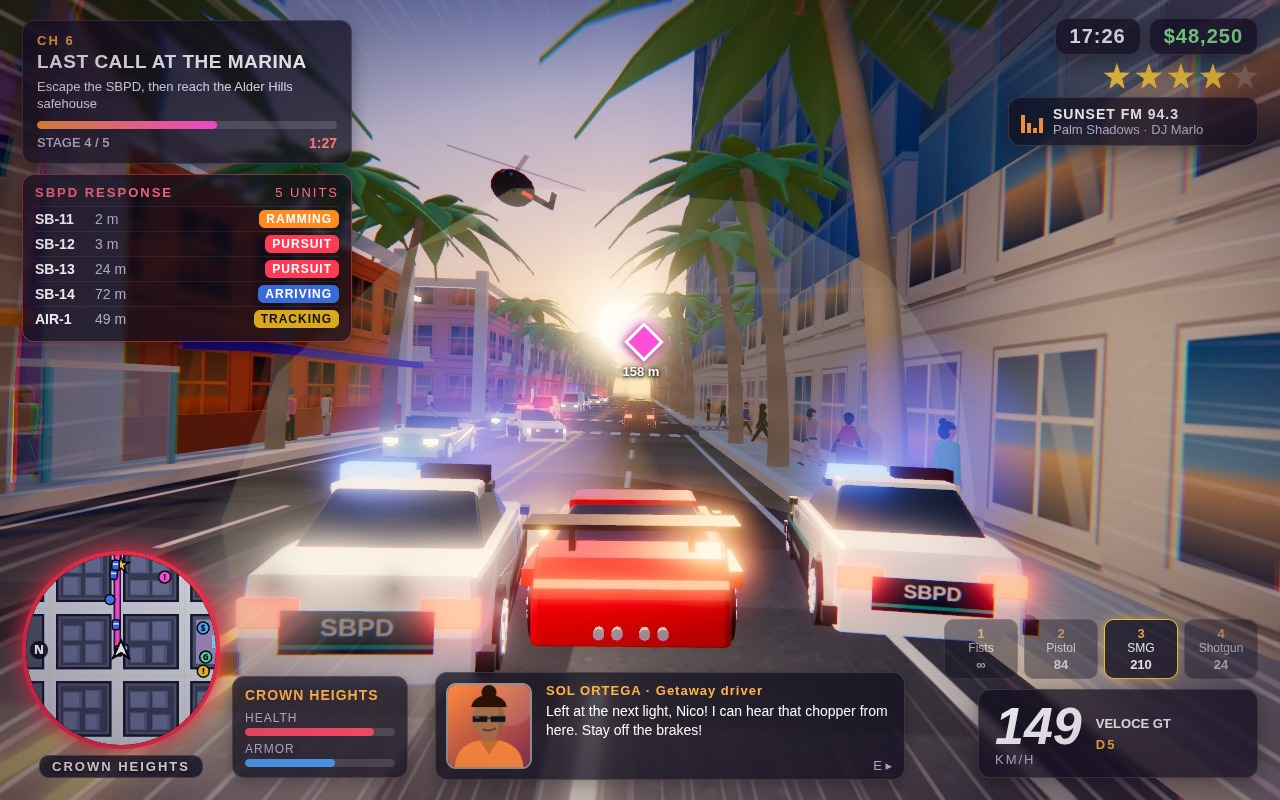
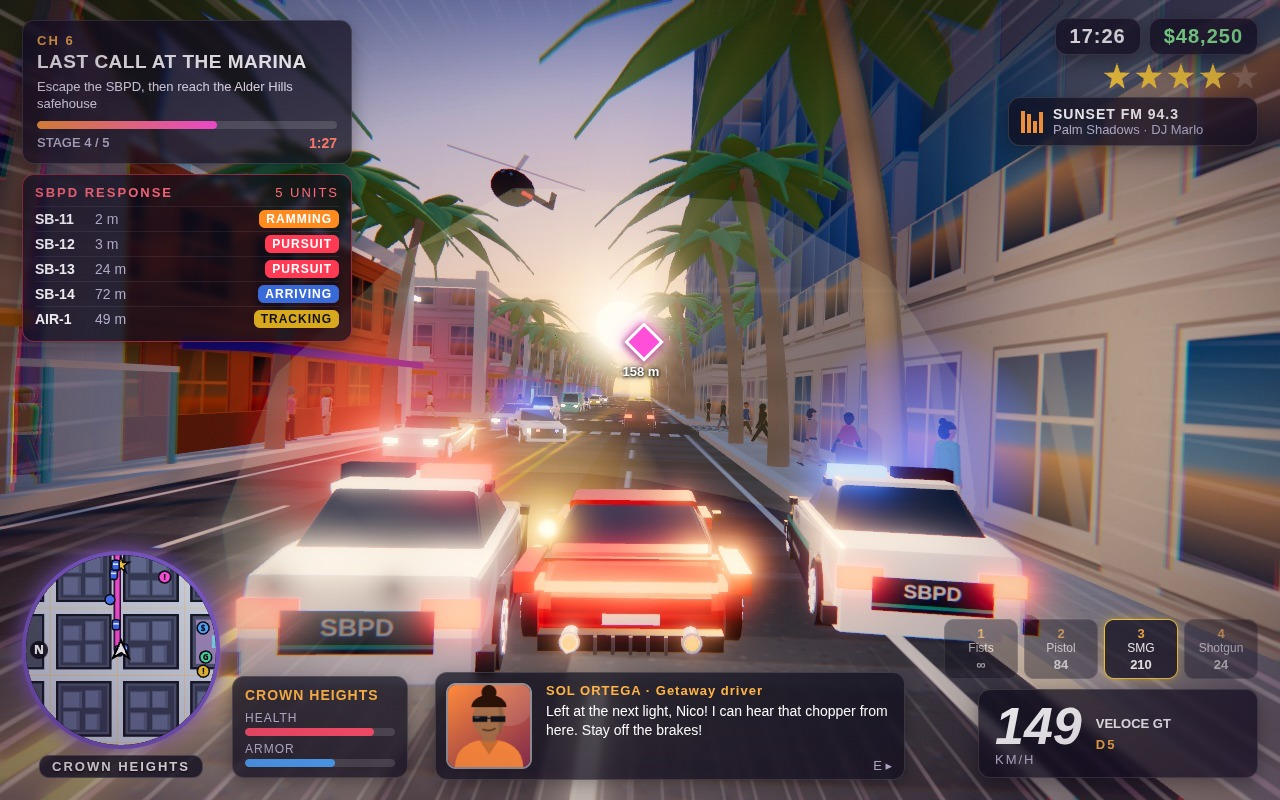
VELOCE GT rear: tapered rounded tail, ducktail, LED tail bar with bloom card, finned diffuser, twin exhausts with throttle flame flicker, wider rear wheels and haunches

Changed region(s): [[0.1875, 0.375, 0.625, 0.8438], [0.0, 0.6562, 0.1875, 0.9688], [0.7812, 0.125, 0.8125, 0.1562]]

diff --git a/game/src/vehicles/vehicleModels.js b/game/src/vehicles/vehicleModels.js
@@ -18,7 +18,7 @@ export const CAR_TYPES = {
 // Side profiles (z: rear -> front is -L/2 -> +L/2, y: height). top = front-to-rear outline of the painted body;
 // cab = greenhouse outline (front base, roof front, roof rear, rear base); light heights; wheel radius.
 const PROFILES = {
-  veloce: { top: [[2.25, 0.4], [2.18, 0.6], [1.1, 0.78], [0.55, 0.84], [-1.65, 0.95], [-2.2, 0.93], [-2.25, 0.62]], cab: [[0.6, 0.83], [-0.2, 1.2], [-0.85, 1.19], [-1.8, 0.93]], hy: 0.55, ty: 0.8, r: 0.35, sport: true },
+  veloce: { top: [[2.25, 0.4], [2.18, 0.6], [1.1, 0.78], [0.55, 0.84], [-1.6, 0.94], [-1.98, 0.92], [-2.18, 0.86], [-2.29, 0.74], [-2.32, 0.56], [-2.28, 0.42]], cab: [[0.6, 0.83], [-0.2, 1.2], [-0.8, 1.18], [-1.95, 0.9]], hy: 0.55, ty: 0.8, r: 0.35, sport: true },
   sedan: { top: [[2.35, 0.48], [2.3, 0.8], [1.05, 0.92], [0.85, 0.95], [-1.55, 0.99], [-2.3, 0.96], [-2.35, 0.55]], cab: [[0.85, 0.94], [0.05, 1.42], [-1.0, 1.42], [-1.6, 0.98]], hy: 0.66, ty: 0.82, r: 0.36 },
   hawke: { top: [[2.45, 0.58], [2.4, 1.0], [1.3, 1.1], [1.1, 1.12], [-2.4, 1.16], [-2.45, 0.66]], cab: [[1.1, 1.1], [0.4, 1.78], [-2.2, 1.78], [-2.4, 1.16]], hy: 0.85, ty: 1.0, r: 0.4 },
   cadia: { top: [[2.55, 0.55], [2.5, 0.92], [1.95, 1.05], [1.8, 1.08], [0.55, 2.02], [-2.5, 2.04], [-2.55, 0.62]], cab: [[1.85, 1.05], [1.2, 1.9], [0.62, 1.92], [0.62, 1.05]], hy: 0.8, ty: 1.2, r: 0.38 },
@@ -69,8 +69,10 @@ const polyShape = (pts) => { const s = new THREE.Shape(); s.moveTo(pts[0][0], pt
 const geoCache = {};
 function build(key) {
   const t = CAR_TYPES[key], pr = PROFILES[key], W = t.wid, L = t.len, wz = L * 0.32, hl = L / 2;
-  const plan = (z) => 1 - 0.1 * Math.pow(Math.min(1, Math.abs(z) / hl), 3);
-  const paint = [extrudeProfile(bodyShape(pr, L), W, (y, z) => plan(z) * (1 - 0.05 * Math.max(0, Math.min(1, (y - 0.6) / 0.4))))];
+  // plan-view taper; the sports car gets a pinched tail and rounded rear shoulders over wide haunches
+  const plan = (z) => 1 - (pr.sport && z < 0 ? 0.17 : 0.1) * Math.pow(Math.min(1, Math.abs(z) / hl), pr.sport && z < 0 ? 2.4 : 3);
+  const shoulder = pr.sport ? 0.14 : 0.05, sy = pr.sport ? 0.55 : 0.6;
+  const paint = [extrudeProfile(bodyShape(pr, L), W, (y, z) => plan(z) * (1 - shoulder * Math.pow(Math.max(0, Math.min(1, (y - sy) / 0.4)), 1.4)))];
   const glass = [], trim = [], lights = [];
   const DK = 0x141418, CH = [1.2, 1.2, 1.25], PLATE = 0xf4f4ee;
   if (pr.cab) {
@@ -85,10 +87,10 @@ function build(key) {
     trim.push([B(W * 0.86, 0.06, 1.3, 0, 0.9, -0.2), 0x2a1a14]);
   }
   for (const sx of [-1, 1]) for (const sz of [-1, 1]) { // wheels: tyre, sidewall, spoked rim, hub
-    const x = sx * (W / 2 - 0.15), z = sz * wz, ox = x + sx * 0.14;
-    trim.push([cyl(pr.r, 0.3, x, pr.r, z, 16), 0x111113], [cyl(pr.r * 0.72, 0.02, ox, pr.r, z, 16), 0x2a2a2e], [cyl(pr.r * 0.66, 0.03, ox + sx * 0.005, pr.r, z, 16), [0.55, 0.57, 0.6]], [cyl(0.07, 0.05, ox + sx * 0.02, pr.r, z, 8), CH]);
+    const wide = pr.sport && sz < 0, x = sx * (W / 2 - (wide ? 0.13 : 0.15)), z = sz * wz, ox = x + sx * (wide ? 0.18 : 0.14);
+    trim.push([cyl(pr.r, wide ? 0.38 : 0.3, x, pr.r, z, 16), 0x111113], [cyl(pr.r * 0.72, 0.02, ox, pr.r, z, 16), 0x2a2a2e], [cyl(pr.r * 0.66, 0.03, ox + sx * 0.005, pr.r, z, 16), [0.55, 0.57, 0.6]], [cyl(0.07, 0.05, ox + sx * 0.02, pr.r, z, 8), CH]);
     for (let k = 0; k < 5; k++) { const sp = new THREE.BoxGeometry(0.03, pr.r * 1.25, 0.07); sp.rotateX(k / 5 * Math.PI); sp.translate(ox + sx * 0.02, pr.r, z); trim.push([sp, CH]); }
-    if (pr.sport) paint.push(B(0.12, 0.16, 0.95, sx * (W / 2 - 0.02), pr.r + 0.36, z)); // fender flare lip
+    if (pr.sport) paint.push(B(wide ? 0.2 : 0.12, wide ? 0.2 : 0.16, wide ? 1.05 : 0.95, sx * (W / 2 + (wide ? 0.02 : -0.02)), pr.r + (wide ? 0.33 : 0.36), z)); // fender flare lip, wider haunches at the rear
   }
   const fz = pr.top[0][0], rz = pr.top[pr.top.length - 1][0], hy = pr.hy, ty = pr.ty;
   for (const sx of [-1, 1]) {
@@ -97,16 +99,21 @@ function build(key) {
     trim.push([B(0.1, 0.09, 0.2, sx * (W / 2 + 0.04), pr.cab ? pr.cab[0][1] + 0.08 : 1.0, pr.cab ? pr.cab[0][0] - 0.2 : 0.5), DK]); // mirrors
   }
   if (pr.sport) {
-    lights.push([B(W * 0.86, 0.06, 0.08, 0, ty - 0.04, rz - 0.05), [4.5, 0.25, 0.2]]); // full-width tail bar
-    trim.push([B(W * 0.98, 0.05, 0.55, 0, 1.24, -1.95), DK]); for (const sx of [-0.55, 0.55]) trim.push([B(0.06, 0.3, 0.14, sx, 1.07, -1.95), DK]); // spoiler
-    trim.push([B(W * 0.9, 0.06, 0.4, 0, 0.3, fz - 0.1), DK], [B(W * 0.86, 0.16, 0.1, 0, 0.36, rz + 0.03), DK]); // splitter, diffuser
-    for (const sx of [-1, 1]) { trim.push([B(0.05, 0.16, 0.7, sx * (W / 2 - 0.0), 0.62, -0.75), DK]); for (const o of [0.12, 0.28]) trim.push([new THREE.CylinderGeometry(0.045, 0.05, 0.14, 10).rotateX(Math.PI / 2).translate(sx * o, 0.34, rz - 0.05), [0.35, 0.35, 0.38]]); }
+    // full-width LED tail bar wrapping the tail, dark rear panel band, ducktail lip
+    const rb = rz - 0.07; // rear skin, past the extrusion bevel
+    lights.push([B(W * 0.76, 0.08, 0.05, 0, 0.75, rb - 0.01), [7, 0.35, 0.25]], [B(W * 0.7, 0.025, 0.04, 0, 0.69, rb - 0.03), [2.4, 0.12, 0.1]]);
+    for (const sx of [-1, 1]) lights.push([B(0.08, 0.07, 0.34, sx * 0.8, 0.75, -2.18), [6, 0.3, 0.22]]);
+    trim.push([B(W * 0.7, 0.14, 0.04, 0, 0.6, rb - 0.03), DK], [B(W * 0.8, 0.035, 0.22, 0, 0.93, -2.03), DK]);
+    trim.push([B(W * 0.9, 0.06, 0.4, 0, 0.3, fz - 0.1), DK], [B(W * 0.8, 0.14, 0.2, 0, 0.31, rb - 0.05), DK]); // splitter, diffuser
+    for (let f = -2; f <= 2; f++) trim.push([B(0.03, 0.15, 0.22, f * 0.15, 0.3, rb - 0.08), [0.08, 0.08, 0.09]]); // diffuser fins
+    for (const sx of [-1, 1]) { trim.push([B(0.05, 0.16, 0.7, sx * (W / 2 - 0.0), 0.62, -0.75), DK]);
+      trim.push([new THREE.CylinderGeometry(0.085, 0.09, 0.2, 14).rotateX(Math.PI / 2).translate(sx * 0.52, 0.32, rb - 0.06), [0.6, 0.6, 0.65]], [new THREE.CylinderGeometry(0.06, 0.06, 0.02, 12).rotateX(Math.PI / 2).translate(sx * 0.52, 0.32, rb - 0.165), [0.03, 0.03, 0.03]]); } // twin exhausts
     trim.push([B(0.7, 0.12, 0.06, 0, 0.5, fz - 0.02), DK]); // nose intake
   } else {
     for (const sx of [-1, 1]) lights.push([B(0.42, 0.2, 0.08, sx * (W / 2 - 0.32), ty - 0.08, rz - 0.05), [4.2, 0.22, 0.18]]);
     trim.push([B(W * 0.52, 0.2, 0.08, 0, hy - 0.02, fz - 0.03), DK], [B(W + 0.02, 0.18, 0.16, 0, 0.36, fz - 0.04), 0x2a2a30], [B(W + 0.02, 0.18, 0.16, 0, 0.36, rz + 0.04), 0x2a2a30]); // grille, bumpers
   }
-  trim.push([B(0.5, 0.13, 0.03, 0, 0.44, rz - 0.01), PLATE]);
+  trim.push([B(0.5, 0.13, 0.03, 0, pr.sport ? 0.5 : 0.44, rz - (pr.sport ? 0.1 : 0.01)), PLATE]);
   if (key === 'interceptor') {
     trim.push([B(W * 0.7, 0.42, 0.12, 0, 0.55, fz + 0.12), DK], [B(0.12, 0.42, 0.1, 0, 0.55, fz + 0.06), DK]); // push bar
     trim.push([B(1.5, 0.08, 0.36, 0, t.roof + 0.0, -0.45), DK]); // light bar base
@@ -141,6 +148,22 @@ function sharedMats() {
   shared.lights = new THREE.MeshBasicMaterial({ vertexColors: true, toneMapped: false });
   return shared;
 }
+// Sports-car tail: soft red bloom card behind the LED bar and exhaust flames that flicker while the player is on the throttle.
+const pr_sport = (key) => !!PROFILES[key].sport;
+let glowTex = null, flameMat = null, tailMat = null;
+function sportRear(grp, key) {
+  const rz = PROFILES[key].top[PROFILES[key].top.length - 1][0];
+  glowTex = glowTex || canvasTex(128, 64, (g) => { const gr = g.createRadialGradient(64, 32, 2, 64, 32, 62); gr.addColorStop(0, 'rgba(255,90,70,1)'); gr.addColorStop(0.35, 'rgba(255,40,40,0.45)'); gr.addColorStop(1, 'rgba(255,0,0,0)'); g.fillStyle = gr; g.fillRect(0, 0, 128, 64); }, false);
+  tailMat = tailMat || new THREE.MeshBasicMaterial({ map: glowTex, transparent: true, depthWrite: false, blending: THREE.AdditiveBlending, toneMapped: false, opacity: 0.55 });
+  const glow = new THREE.Mesh(new THREE.PlaneGeometry(CAR_TYPES[key].wid * 1.25, 0.5), tailMat); glow.position.set(0, 0.74, rz - 0.13); glow.rotation.y = Math.PI; grp.add(glow);
+  flameMat = flameMat || new THREE.MeshBasicMaterial({ color: new THREE.Color(2.2, 0.85, 0.22), transparent: true, opacity: 0.8, depthWrite: false, blending: THREE.AdditiveBlending, toneMapped: false });
+  for (const sx of [-1, 1]) {
+    const f = new THREE.Mesh(new THREE.ConeGeometry(0.075, 0.42, 10, 1, true).rotateX(-Math.PI / 2).translate(0, 0, -0.2), flameMat); f.position.set(sx * 0.52, 0.32, rz - 0.24);
+    f.onBeforeRender = () => { const c = G.p.car, on = c && c.mesh === grp ? Math.max(0, c.input.throttle) * Math.min(1, Math.abs(c.speed) / 20) : 0, t = (G.time || 0) * 37 + sx * 1.7;
+      const k = on * (0.55 + 0.3 * Math.sin(t) + 0.2 * Math.sin(t * 2.3 + 1)); f.scale.set(0.8 + 0.4 * k, 0.8 + 0.4 * k, Math.max(0.001, k)); };
+    grp.add(f);
+  }
+}
 export function buildCarMesh(key, tint) {
   const g = geoCache[key] || (geoCache[key] = build(key)); const t = CAR_TYPES[key], m = sharedMats();
   const c = t.police ? t.tint : key === 'tupelo' ? t.tint : tint ?? t.tint;
@@ -148,6 +171,7 @@ export function buildCarMesh(key, tint) {
   const paint = matCache[mk] || (matCache[mk] = new THREE.MeshPhysicalMaterial({ color: c, roughness: 0.28, metalness: 0.12, clearcoat: 1, clearcoatRoughness: 0.05, envMap: env(), envMapIntensity: 0.45 }));
   const grp = new THREE.Group(), a = new THREE.Mesh(g.paint, paint), gl = new THREE.Mesh(g.glass, m.glass), tr = new THREE.Mesh(g.trim, m.trim), li = new THREE.Mesh(g.lights, m.lights);
   a.castShadow = gl.castShadow = tr.castShadow = true; grp.add(a, gl, tr, li); grp.userData.bodyMesh = a;
+  if (pr_sport(key)) sportRear(grp, key);
   if (t.police) {
     const lv = livery();
     const sideLit = new THREE.MeshLambertMaterial({ map: lv.side, transparent: true, depthWrite: false, polygonOffset: true, polygonOffsetFactor: -2 });
